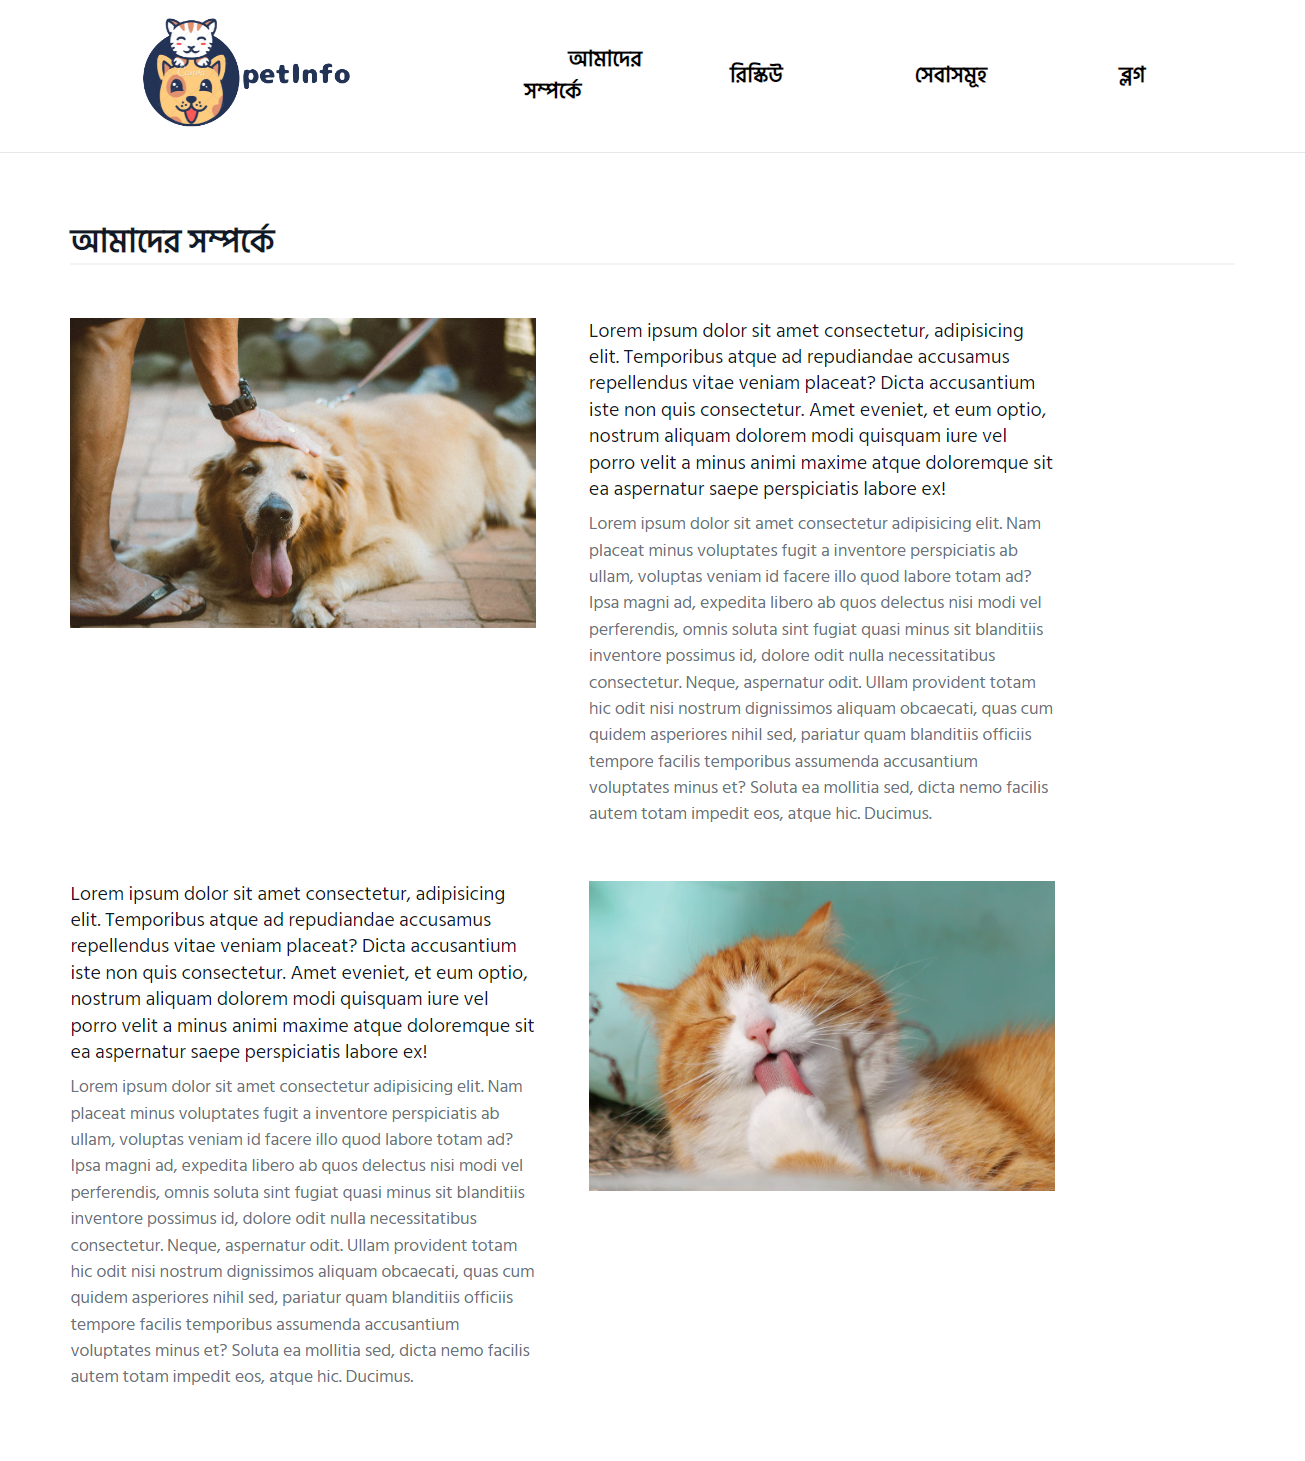
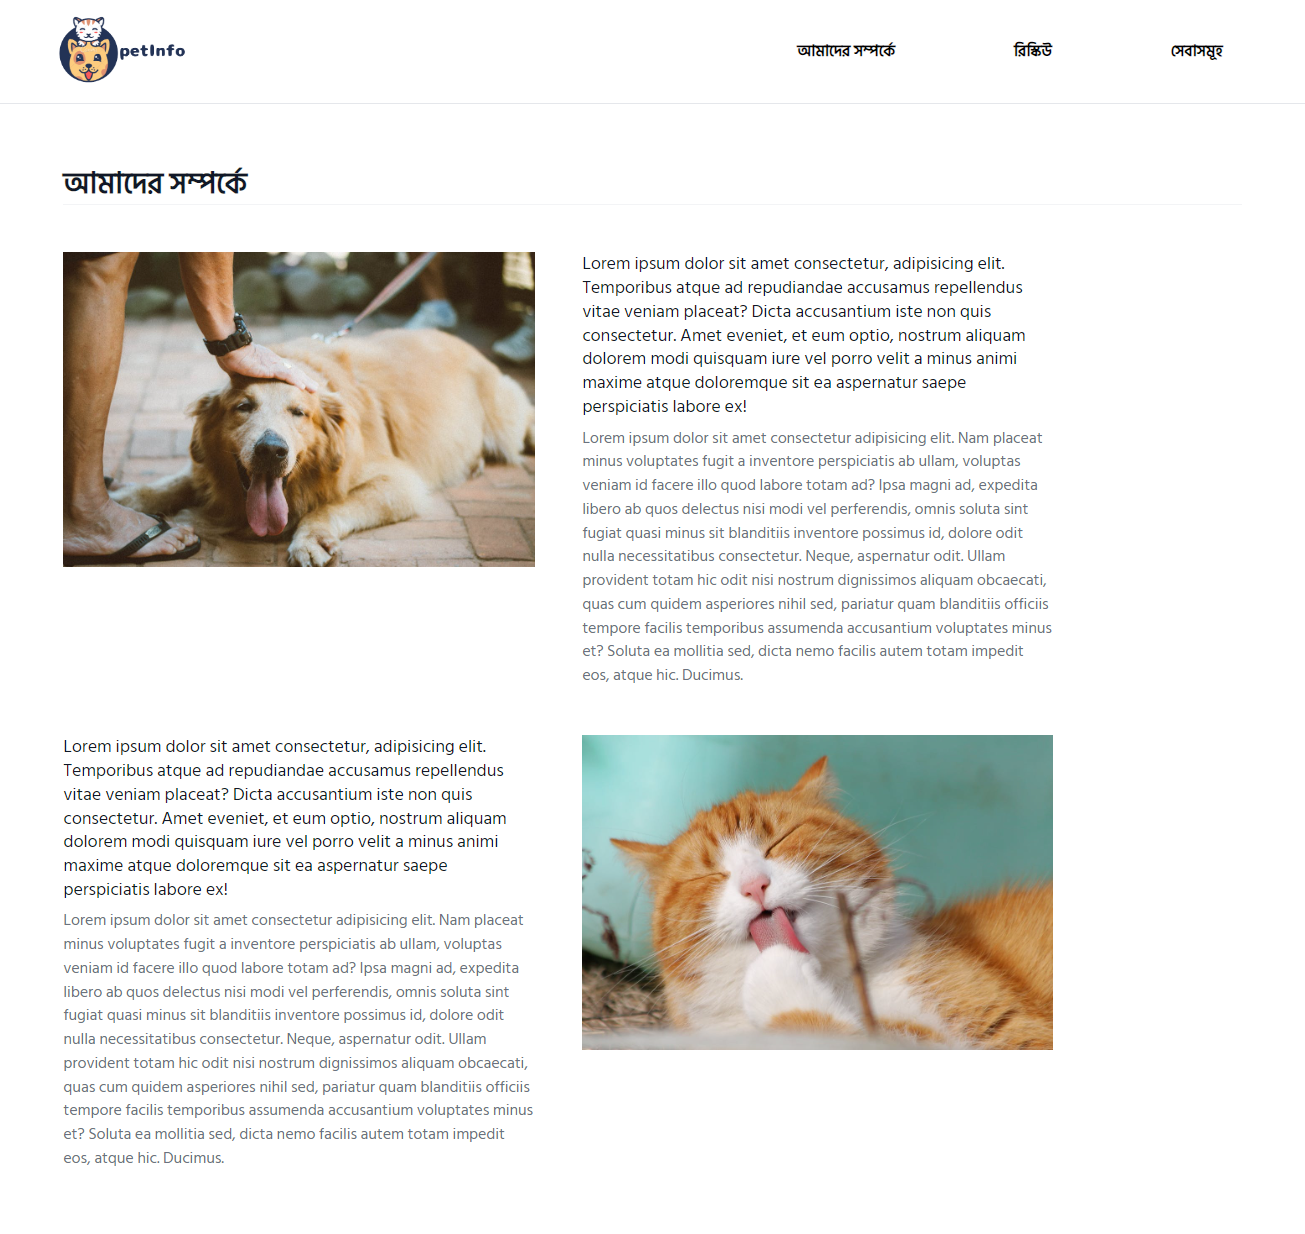
Homepage updated

diff --git a/src/Components/Vetcard.js b/src/Components/Vetcard.js
@@ -9,70 +9,73 @@ import {
 import { HiMailOpen } from 'react-icons/hi'
 
 const Vetcard = (props) => {
-  const { _id, name, email, contact, img, address, social } = props.vet
+  const { _id, name, email, contact, img, address, social, online } = props.vet
 
   return (
     <>
-      <div className='max-w-sm bg-white rounded-lg border border-gray-200 shadow-md'>
-        <div className='flex justify-end px-4 pt-4'></div>
-        <div className='flex flex-col items-center p-10'>
-          <img
-            className='mb-3 w-20 h-20 rounded-full shadow-lg'
-            src={img}
-            alt=''
-          />
-          <h5 className='mb-1 text-xl text-2xl text-gray-900'>{name}</h5>
-          <p className='flex mt-4 space-x-3 lg:mt-6 font-medium'>
-            Division: {address.division} <br />
-            District: {address.district} <br />
-            Upazila: {address.upazila}
-          </p>
-          {/* <p className='flex mt-4 space-x-3 lg:mt-6 font-medium'>
+      {online && (
+        <div className='max-w-sm bg-white rounded-lg border border-gray-200 shadow-md'>
+          <div className='flex justify-end px-4 pt-4'></div>
+          <div className='flex flex-col items-center p-10'>
+            <img
+              className='mb-3 w-20 h-20 rounded-full shadow-lg'
+              src={img}
+              alt=''
+            />
+            <h5 className='mb-1 text-xl text-2xl text-gray-900'>{name}</h5>
+            <p className='flex mt-4 space-x-3 lg:mt-6 font-medium'>
+              Division: {address?.division} <br />
+              District: {address?.district} <br />
+              Upazila: {address?.upazila} <br />
+              Online: {online.toString()}
+            </p>
+            {/* <p className='flex mt-4 space-x-3 lg:mt-6 font-medium'>
             Bachelor: {education.bachelor} <br />
             Masters: {education.masters} <br />
           </p> */}
-          <div className='flex mt-4 space-x-3 lg:mt-6'>
-            <Link
-              to={`/details/${_id}`}
-              className='inline-flex items-center py-2 px-4 text-sm font-medium text-center text-white bg-gradient-to-r from-green-400 to-blue-600 rounded-lg border hover:bg-blue-700 hover:border-blue-900  focus:ring-4 focus:outline-none focus:ring-blue-700'
-            >
-              See Details
-            </Link>
-          </div>
-          <div className='flex mt-4 space-x-3 lg:mt-6'>
-            <a
-              href={social.whatsapp}
-              className='p-4 w-2.5 font-medium cursor-pointer text-blue-900'
-            >
-              <BsWhatsapp size={25} />
-            </a>
-            <a
-              href={social.telegram}
-              className='p-4 w-2.5 font-medium cursor-pointer text-blue-900'
-            >
-              <BsTelegram size={25} />
-            </a>
-            <a
-              href={contact}
-              className='p-4 w-2.5 font-medium cursor-pointer text-blue-900'
-            >
-              <BsTelephoneFill size={25} />
-            </a>
-            <a
-              href={social.facebook}
-              className='p-4 w-2.5 font-medium cursor-pointer text-blue-900'
-            >
-              <BsFacebook size={25} />
-            </a>
-            <a
-              href={email}
-              className='p-4 w-2.5 font-medium cursor-pointer text-blue-900'
-            >
-              <HiMailOpen size={25} />
-            </a>
+            <div className='flex mt-4 space-x-3 lg:mt-6'>
+              <Link
+                to={`/details/${_id}`}
+                className='inline-flex items-center py-2 px-4 text-sm font-medium text-center text-white bg-gradient-to-r from-green-400 to-blue-600 rounded-lg border hover:bg-blue-700 hover:border-blue-900  focus:ring-4 focus:outline-none focus:ring-blue-700'
+              >
+                See Details
+              </Link>
+            </div>
+            <div className='flex mt-4 space-x-3 lg:mt-6'>
+              <a
+                href={social.whatsapp}
+                className='p-4 w-2.5 font-medium cursor-pointer text-blue-900'
+              >
+                <BsWhatsapp size={25} />
+              </a>
+              <a
+                href={social.telegram}
+                className='p-4 w-2.5 font-medium cursor-pointer text-blue-900'
+              >
+                <BsTelegram size={25} />
+              </a>
+              <a
+                href={contact}
+                className='p-4 w-2.5 font-medium cursor-pointer text-blue-900'
+              >
+                <BsTelephoneFill size={25} />
+              </a>
+              <a
+                href={social.facebook}
+                className='p-4 w-2.5 font-medium cursor-pointer text-blue-900'
+              >
+                <BsFacebook size={25} />
+              </a>
+              <a
+                href={email}
+                className='p-4 w-2.5 font-medium cursor-pointer text-blue-900'
+              >
+                <HiMailOpen size={25} />
+              </a>
+            </div>
           </div>
         </div>
-      </div>
+      )}
     </>
   )
 }

diff --git a/src/Components/Header.js b/src/Components/Header.js
@@ -15,26 +15,26 @@ const bangla = () => {
           <div>
             <div id='menu' className='md:block lg:block hidden'>
               <ul className='flex text-3xl md:text-base items-center py-10 md:flex flex-col md:flex-row justify-center fixed md:relative top-0 bottom-0 left-0 right-0 bg-white md:bg-transparent z-20'>
-                <li className='text-gray-700 hover:text-gray-900 bangla-font lg:text-lg pt-10 md:pt-0'>
+                <li className='text-gray-700 hover:text-gray-900 bangla-font pt-10 md:pt-0'>
                   <Link
                     to='/about'
-                    className='no-underline text-xl text-black hover:text-blue-dark mx-5 px-5 text-3xl font-semibold'
+                    className='no-underline text-base text-black hover:text-blue-dark mx-5 px-5 font-semibold'
                   >
                     আমাদের সম্পর্কে
                   </Link>
                 </li>
-                <li className='text-gray-700 hover:text-gray-900 bangla-font text-base lg:text-lg pt-10 md:pt-0 md:ml-5 lg:ml-10'>
+                <li className='text-gray-700 hover:text-gray-900 bangla-font pt-10 md:pt-0 md:ml-5 lg:ml-10'>
                   <Link
                     to='/rescue'
-                    className='no-underline text-xl text-black hover:text-blue-dark mx-5 px-5 text-3xl font-semibold'
+                    className='no-underline text-base text-black hover:text-blue-dark mx-5 px-5 font-semibold'
                   >
                     রিস্কিউ
                   </Link>
                 </li>
-                <li className='text-gray-700 hover:text-gray-900 bangla-font text-base lg:text-lg pt-10 md:pt-0 md:ml-5 lg:ml-10'>
+                <li className='text-gray-700 hover:text-gray-900 bangla-font text-base pt-10 md:pt-0 md:ml-5 lg:ml-10'>
                   <Link
                     to='/services'
-                    className='no-underline text-xl text-black hover:text-blue-dark mx-5 px-5 text-3xl font-semibold'
+                    className='no-underline text-base text-black hover:text-blue-dark mx-5 px-5  font-semibold'
                   >
                     সেবাসমূহ
                   </Link>

diff --git a/src/Screens/Homescreen.js b/src/Screens/Homescreen.js
@@ -26,7 +26,7 @@ const Homescreen = () => {
         </h1>
         <div className='grid grid-cols-1 gap-10 md:grid-cols-2 lg:grid-cols-3 m-8 p-8'>
           {vets.map((vet) => (
-            <VetCard key={vet._id} vet={vet}></VetCard>
+            <VetCard key={vet._id} vet={vet}></VetCard> 
           ))}
         </div>
       </section>

diff --git a/README.md b/README.md
@@ -24,6 +24,10 @@
 
 ![rescue](https://github.com/jihan212/petinfo-frontend/blob/main/src/Images/rescue.png)
 
+## Service Page Interface
+
+![Service](https://github.com/jihan212/petinfo-frontend/blob/main/src/Images/service.png)
+
 
 
 
